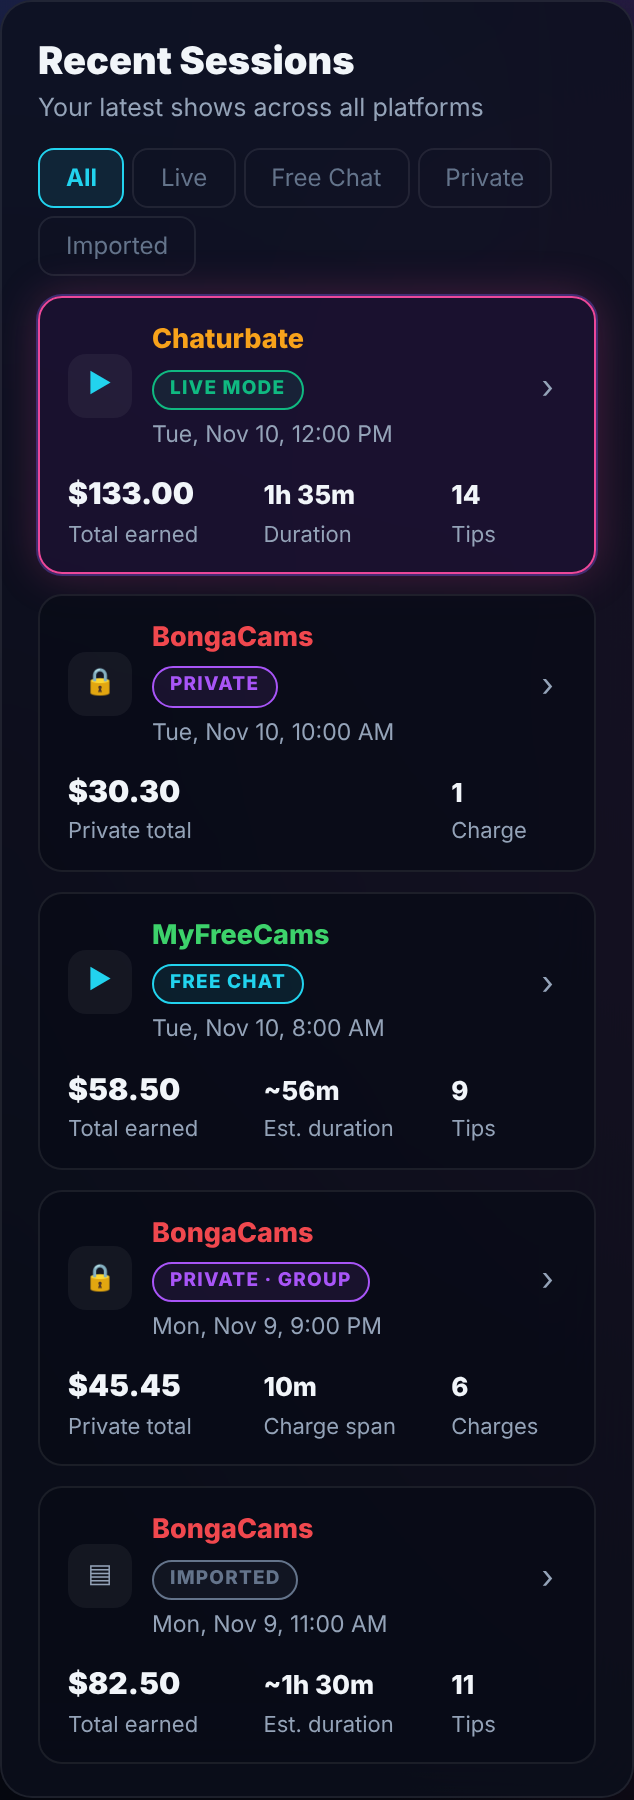
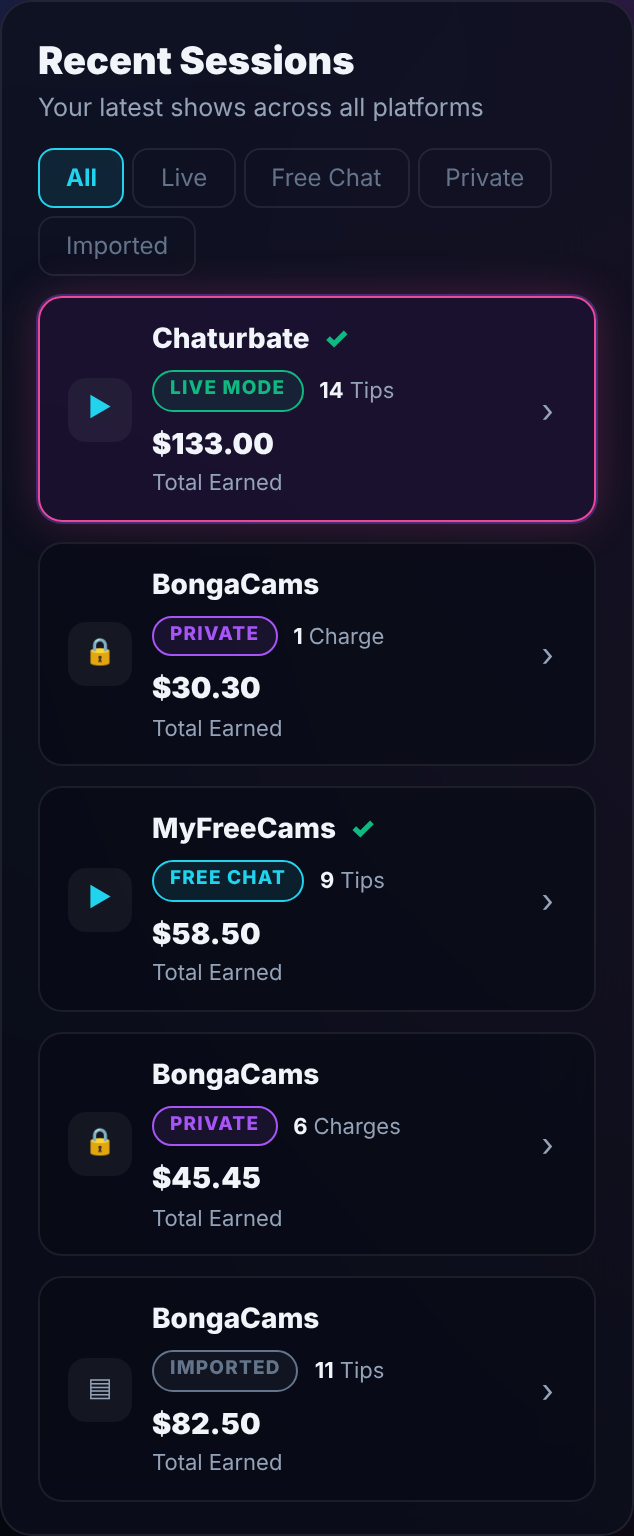
Sessions: Recent Sessions rows show platform, type, plan check, earnings, vs-typical arrow
Per owner direction (original look, prominent essentials only):
- Row title is the platform name; type badge (LIVE MODE / FREE CHAT /
  PRIVATE / IMPORTED) with the tip or charge count beside it.
- Check mark when matchPlannedStream reports the session started inside a
  saved Stream Planner window (insideWindow); no new calculation.
- Earnings with "Total Earned"; the verified sessionVsTypical result shows
  as a green up / red down arrow only (figure kept for screen readers and
  the hover title; on par shows no mark).
- Original colours and pink selected border restored; per-type duration
  facts and platform-colour border from the previous commit removed.
- Layout still sized by the card: nothing clipped or hidden at 1440 / 1024
  / 768 / 390 / 320.

Claude-Session: https://claude.ai/code/session_013D8W4c8gLsLpCDDxQU7mcC

diff --git a/glowmetrics_fresh/app/dashboard/SessionsOverview.js b/glowmetrics_fresh/app/dashboard/SessionsOverview.js
@@ -375,71 +375,56 @@ function VsTypical({ vs, testId, long = false, e }) {
 }
 
 // ── Row 4 left: sessions list ────────────────────────────────────────────────
-// Row-only presentation helpers (Session Details keeps sessionTitle/lengthText).
-// They format existing session fields; nothing here computes a new value.
-const validTime = (iso) => !!iso && !isNaN(new Date(iso).getTime())
-// Selected-row edge colour, after each platform's logo (rows only; the shared
-// PLATFORM_COLORS used by charts are unchanged). Unknown platforms keep the pink edge.
-const ROW_PLATFORM_COLOR = { chaturbate: "#F7A21B", bongacams: "#F0484E", myfreecams: "#3DD26B" }
-const brandColor = (p) => ROW_PLATFORM_COLOR[String(p || "").toLowerCase().replace(/[^a-z]/g, "")] || null
-// Private sub-type as the import recorded it ("group", "spy", ...); none for plain private.
-const privateKind = (e) => {
-  const t = String(e.sessionType || "").trim()
-  if (!t || /^private( chat)?$/i.test(t)) return null
-  return `${t.charAt(0).toUpperCase()}${t.slice(1)}`
+// Row-only presentation (Session Details keeps sessionTitle/lengthText/whenText).
+// A row shows only: platform, session type, the verified vs-typical marker,
+// a check when the session started inside a saved Stream Planner window, and
+// earnings. Every value is an existing engine output.
+// Row marker: only the arrow is visible; the verified figure stays in the text for
+// screen readers and the hover title (same sessionVsTypical result as Session Details).
+const srOnly = { position: "absolute", width: 1, height: 1, padding: 0, margin: -1, overflow: "hidden", clip: "rect(0,0,0,0)", whiteSpace: "nowrap", border: 0 }
+function RowVsArrow({ vs, testId }) {
+  const color = vs.outcome === "above" ? C.green : vs.outcome === "below" ? "#F87171" : C.text
+  const arrow = vs.outcome === "above" ? "▲" : vs.outcome === "below" ? "▼" : null // on par: no visible mark
+  const pct = vs.outcome === "par" ? "On par" : `${vs.deltaPct > 0 ? "+" : ""}${vs.deltaPct}%`
+  return (
+    <span data-testid={testId} data-outcome={vs.outcome} title={`${pct} vs typical (median ${fmtUsd(vs.medianUSD)} of ${vs.sessions} comparable sessions)`} style={{ position: "relative", color, fontSize: 12, lineHeight: 1 }}>
+      {arrow && <span aria-hidden="true">{arrow}</span>}<span style={srOnly}> {pct}</span><span style={srOnly}>vs typical</span>
+    </span>
+  )
 }
-// Up to two facts per row. Private never gets a duration; a charge span only when one exists.
-function rowFacts(e) {
-  const count = e.type === "private"
-    ? { value: e.chargeCount, label: e.chargeCount === 1 ? "Charge" : "Charges", id: "row-count", col: "sx-fact-count" }
-    : { value: e.tipCount, label: e.tipCount === 1 ? "Tip" : "Tips", id: "row-count", col: "sx-fact-count" }
-  if (e.type === "private") {
-    return e.chargeSpanMinutes != null ? [{ value: fmtMinutes(e.chargeSpanMinutes), label: "Charge span", id: "row-duration", col: "sx-fact-duration" }, count] : [count]
-  }
-  if (e.type === "live") {
-    return [e.durationEstimated
-      ? { value: fmtMinutes(e.durationMinutes, true), label: "Est. duration", id: "row-duration", col: "sx-fact-duration" }
-      : { value: fmtDuration((e.durationMinutes || 0) * 60), label: e.running ? "So far" : "Duration", id: "row-duration", col: "sx-fact-duration" }, count]
-  }
-  // Free chat / imported: reconstructed from tips, so always labelled estimated.
-  return e.durationUnknown ? [count] : [{ value: fmtMinutes(e.durationMinutes, true), label: "Est. duration", id: "row-duration", col: "sx-fact-duration" }, count]
-}
-
-function SessionRow({ e, tz, selected, onSelect, vs }) {
+function SessionRow({ e, selected, onSelect, vs, plan }) {
   const t = TYPE[e.type]
-  const kind = e.type === "private" ? privateKind(e) : null
-  const status = e.running ? { label: "LIVE NOW", color: C.green } : e.isNew ? { label: "JUST ENDED", color: C.pink }
-    : kind ? { ...t, label: `${t.label} · ${kind.toUpperCase()}` } : t
+  const status = e.running ? { label: "LIVE NOW", color: C.green } : e.isNew ? { label: "JUST ENDED", color: C.pink } : t
   const platform = e.platforms[0]
-  const accent = brandColor(platform) || C.pink // selected edge follows the session's platform
+  const inWindow = !!(plan && plan.insideWindow) // matchPlannedStream: started inside the planned window
   return (
     <button data-testid={`history-${e.id}`} onClick={onSelect} aria-pressed={selected} className="sx-row" style={{
-      ...inset, width: "100%", textAlign: "left", cursor: "pointer", padding: "11px 14px", color: C.white,
-      ...(selected ? { border: `1px solid ${accent}`, boxShadow: `0 0 0 1px ${accent}55, 0 0 22px ${accent}40`, background: "rgba(30,18,52,0.75)" } : {}),
+      ...inset, width: "100%", textAlign: "left", cursor: "pointer", padding: "10px 14px", color: C.white,
+      ...(selected ? { border: `1px solid ${C.pink}`, boxShadow: `0 0 0 1px ${C.indigo}55, 0 0 22px ${C.pink}40`, background: "rgba(30,18,52,0.75)" } : {}),
     }}>
       <span aria-hidden="true" className="sx-row-icon" style={{ width: 32, height: 32, borderRadius: 9, display: "grid", placeItems: "center", background: "rgba(255,255,255,0.05)", color: e.type === "imported" ? C.text : C.cyan, fontSize: 13 }}>{e.type === "imported" ? "▤" : e.type === "private" ? "🔒" : "▶"}</span>
       <span className="sx-row-id">
-        <span className="sx-row-head" style={{ display: "flex", alignItems: "center", flexWrap: "wrap", gap: "4px 8px" }}>
-          {platform && <span data-testid={`platform-badge-${platform}`} style={{ fontWeight: 800, fontSize: 13.5, color: C.white, overflowWrap: "anywhere" }}>{pName(platform)}</span>}
+        <span style={{ display: "flex", alignItems: "center", flexWrap: "wrap", gap: "2px 7px" }}>
+          {platform && <span data-testid={`platform-badge-${platform}`} style={{ fontWeight: 800, fontSize: 14, color: C.white, overflowWrap: "anywhere" }}>{pName(platform)}</span>}
           {e.platforms.length > 1 && <span title={e.platforms.slice(1).map(pName).join(", ")} style={{ fontSize: 11.5, color: C.text }}>+{e.platforms.length - 1}</span>}
-          <Badge text={status.label} color={status.color} testId={`type-badge-${e.type}`} />
+          {inWindow && <span data-testid="row-in-window" role="img" aria-label="Inside your planned stream window" title="Started inside your planned stream window" style={{ color: C.green, fontWeight: 900, fontSize: 14 }}>✓</span>}
           {e.isNew && <span data-testid="row-new-badge" style={{ display: "none" }}>NEW</span>}
         </span>
-        {validTime(e.startTime) && <span style={{ display: "block", fontSize: 11.5, color: C.text, marginTop: 4 }}>{whenText(e.startTime, tz)}</span>}
+        <span style={{ display: "flex", alignItems: "center", flexWrap: "wrap", gap: "4px 8px", marginTop: 5 }}>
+          <Badge text={status.label} color={status.color} testId={`type-badge-${e.type}`} />
+          {/* secondary: how many tips / charges (kept small; existing count, not a new metric) */}
+          <span data-testid="row-count" style={{ fontSize: 11, color: C.text, whiteSpace: "nowrap" }}>
+            <span style={{ color: C.white, fontWeight: 700 }}>{e.type === "private" ? e.chargeCount : e.tipCount}</span>
+            <span style={{ marginLeft: 3 }}>{e.type === "private" ? (e.chargeCount === 1 ? "Charge" : "Charges") : (e.tipCount === 1 ? "Tip" : "Tips")}</span>
+          </span>
+        </span>
       </span>
-      <span className="sx-row-stats">
-        <span className="sx-row-money">
-          <span style={{ display: "block", fontWeight: 900, fontSize: 15, whiteSpace: "nowrap" }}>{fmtUsd(e.totalUSD)}</span>
-          {vs ? <VsTypical vs={vs} testId={`row-vs-${e.id}`} /> : <span style={{ display: "block", fontSize: 11, color: C.text }}>{e.type === "private" ? "Private total" : "Total earned"}</span>}
+      <span className="sx-row-money">
+        <span style={{ display: "flex", alignItems: "center", justifyContent: "inherit", gap: 6, fontWeight: 900, fontSize: 14.5, whiteSpace: "nowrap" }}>
+          {fmtUsd(e.totalUSD)}
+          {vs && <RowVsArrow vs={vs} testId={`row-vs-${e.id}`} />}
         </span>
-        <span className="sx-row-facts">
-          {rowFacts(e).map((f) => (
-            <span key={f.id} data-testid={f.id} className={f.col}>
-              <span style={{ display: "block", fontWeight: 800, fontSize: 13, whiteSpace: "nowrap" }}>{f.value}</span>
-              <span style={{ display: "block", fontSize: 11, color: C.text }}>{f.label}</span>
-            </span>
-          ))}
-        </span>
+        <span style={{ display: "block", fontSize: 11, color: C.text }}>Total Earned</span>
       </span>
       <span aria-hidden="true" className="sx-row-chev" style={{ color: C.text, fontSize: 16 }}>›</span>
     </button>
@@ -750,26 +735,17 @@ export default function SessionsOverview({ tips, shows, paidSessions, tz, showsL
         @keyframes sxFlash { 0% { filter: drop-shadow(0 0 26px rgba(34,211,238,.9)); } 100% { filter: drop-shadow(0 0 18px rgba(124,92,255,.45)); } }
         .sx-root .sx-row { transition: transform .15s ease, box-shadow .2s ease, border-color .2s ease, background .2s ease; }
         .sx-root .sx-row:hover { transform: translateY(-1px); border-color: rgba(34,211,238,0.35); }
-        /* Recent Sessions rows: sized by the card (container), not the window.
-           Narrow card: identity on top, earnings + facts in aligned columns beneath.
-           Wide card: one line with fixed metric columns, so every row lines up. */
+        /* Recent Sessions rows: identity | earnings on one line; on a very narrow
+           card the earnings drop under the identity instead of squeezing it. */
         .sx-root .sx-list { container-type: inline-size; container-name: sxlist; min-width: 0; }
-        .sx-root .sx-row { display: grid; grid-template-columns: 32px minmax(0,1fr) 12px; grid-template-areas: "icon id chev" "stats stats stats"; column-gap: 10px; row-gap: 10px; align-items: center; }
+        .sx-root .sx-row { display: grid; grid-template-columns: 32px minmax(0,1fr) auto 12px; grid-template-areas: "icon id money chev"; column-gap: 10px; row-gap: 6px; align-items: center; }
         .sx-root .sx-row-icon { grid-area: icon; }
         .sx-root .sx-row-id { grid-area: id; min-width: 0; }
+        .sx-root .sx-row-money { grid-area: money; text-align: right; }
         .sx-root .sx-row-chev { grid-area: chev; }
-        .sx-root .sx-row-stats { grid-area: stats; display: grid; grid-template-columns: minmax(0,1.15fr) minmax(0,1.1fr) minmax(0,.75fr); column-gap: 10px; align-items: end; min-width: 0; }
-        .sx-root .sx-row-facts { display: contents; }
-        .sx-root .sx-fact-duration { grid-column: 2; }
-        .sx-root .sx-fact-count { grid-column: 3; }
-        @container sxlist (min-width: 460px) {
-          .sx-root .sx-row { grid-template-columns: 32px minmax(0,1fr) auto 12px; grid-template-areas: "icon id stats chev"; }
-          .sx-root .sx-row-stats { grid-template-columns: 90px 76px 50px; column-gap: 12px; align-items: center; }
-          .sx-root .sx-row-money { text-align: right; }
-        }
-        @container sxlist (max-width: 299px) { .sx-root .sx-row-head { flex-direction: column; align-items: flex-start !important; } }
-        @container sxlist (min-width: 460px) and (max-width: 619px) {
-          .sx-root .sx-row-head { flex-direction: column; align-items: flex-start !important; }
+        @container sxlist (max-width: 299px) {
+          .sx-root .sx-row { grid-template-columns: 32px minmax(0,1fr) 12px; grid-template-areas: "icon id chev" "icon money chev"; }
+          .sx-root .sx-row-money { text-align: left; }
         }
         @media (prefers-reduced-motion: reduce) { .sx-root .sx-pulse, .sx-root .sx-flash { animation: none; } .sx-root .sx-row { transition: none; } .sx-root .sx-row:hover { transform: none; } }
         @media (max-width: 1150px) { .sx-root .sx-hero { grid-template-columns: 1fr !important; } }
@@ -843,7 +819,7 @@ export default function SessionsOverview({ tips, shows, paidSessions, tz, showsL
           {showsLoading && !history.length && <div style={{ color: C.text, fontSize: 12 }}>Loading…</div>}
           {!showsLoading && !history.length && !runningEntry && <div data-testid="history-empty" style={{ color: C.text, fontSize: 13 }}>No sessions yet. Start a Live Mode show or import your tip history.</div>}
           {(history.length > 0 || runningEntry) && !rows.length && <div data-testid="history-filter-empty" style={{ color: C.text, fontSize: 13 }}>No sessions of this type yet. Short tip groups (under 30 min or a single tip) are not listed.</div>}
-          {rows.map((e) => <SessionRow key={e.id} e={e} tz={tz} selected={selected?.id === e.id} onSelect={() => setSelectedId(e.id)} vs={vsById.get(e.id)} />)}
+          {rows.map((e) => <SessionRow key={e.id} e={e} selected={selected?.id === e.id} onSelect={() => setSelectedId(e.id)} vs={vsById.get(e.id)} plan={plannedStreams.length ? matchPlannedStream(e, plannedStreams) : null} />)}
         </div>
         <div data-testid="session-details" style={card({ padding: "16px 18px", display: "flex", flexDirection: "column", gap: 12, background: "rgba(12,15,28,0.78)", boxShadow: "none" })}>
           <div style={{ fontSize: 19, fontWeight: 900, color: C.white }}>Session Details</div>
